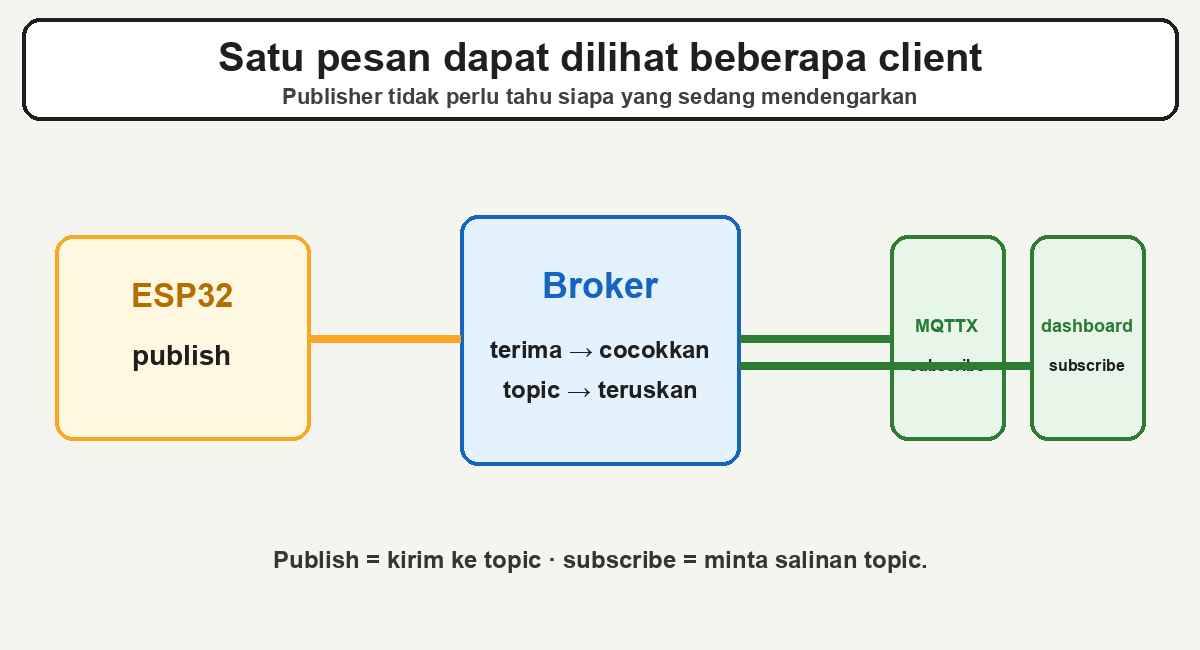
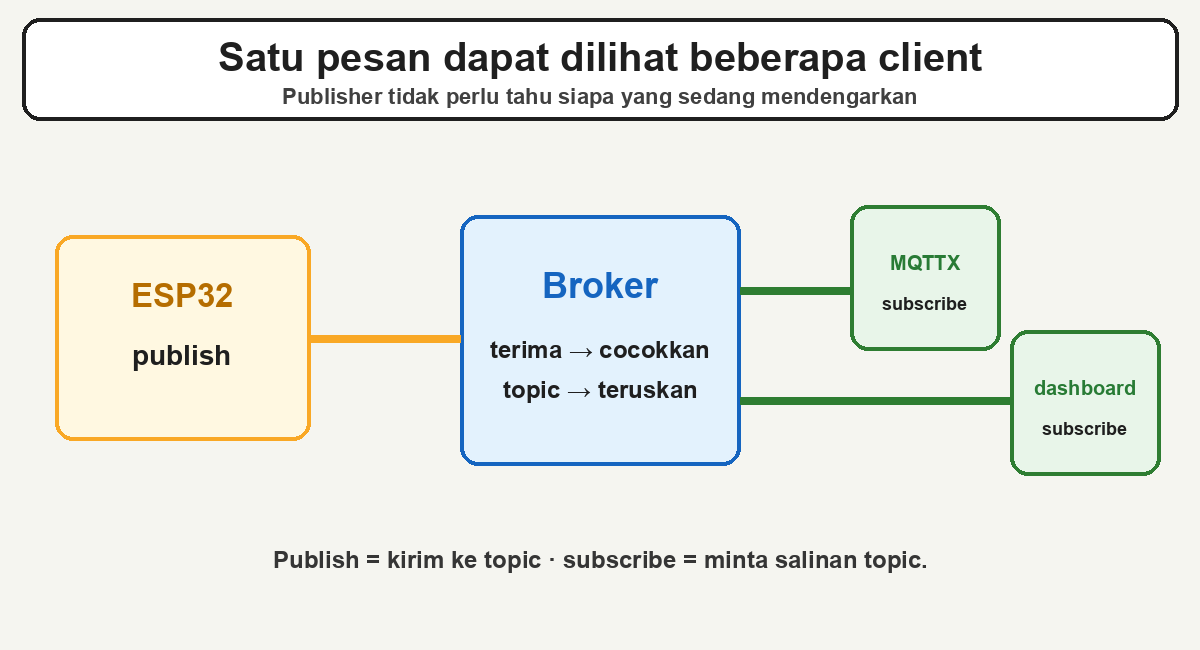
fix(fsiot): improve FS-32 preview clarity

Changed region(s): [[0.6167, 0.3077, 0.9867, 0.7385], [0.6167, 0.4308, 0.7092, 0.4615]]

diff --git a/database/seeders/Article102Seeder.php b/database/seeders/Article102Seeder.php
@@ -108,8 +108,8 @@ HTML
 <p><strong>Bedanya dengan HTTP:</strong> pada HTTP browser biasanya meminta satu alamat lalu server menjawab. Pada MQTT, client dapat berlangganan topic dan broker mengantarkan pesan baru ketika ada publisher. Detail protokolnya ada pada <a href="https://docs.oasis-open.org/mqtt/mqtt/v5.0/mqtt-v5.0.html" target="_blank" rel="noopener noreferrer">spesifikasi MQTT 5.0 OASIS</a>.</p>
 
 <h2>Checklist sebelum FS-33</h2>
-<ul id="fsiot-mqtt-intro-checklist-items"><li>Saya tahu broker adalah perantara pesan.</li><li>Saya tahu client dapat berupa ESP32 atau MQTTX.</li><li>Saya tahu topic adalah alamat pesan, bukan URL web.</li><li>Saya tahu publish berarti mengirim ke topic.</li><li>Saya tahu subscribe berarti menerima pesan dari topic.</li><li>Saya tidak memakai broker publik untuk lab ini.</li><li>MQTTX sudah terpasang atau saya tahu bagian yang perlu diselesaikan.</li><li>Saya belum perlu membuka Arduino IDE pada FS-32.</li></ul>
-<p><strong>Cara menguji checklist:</strong> jelaskan alur ESP32 → broker → MQTTX dengan kata-katamu sendiri, lalu centang hanya yang sudah benar. Tidak perlu terminal atau perintah sintaks hari ini.</p>
+<ul><li>Saya tahu broker adalah perantara pesan.</li><li>Saya tahu client dapat berupa ESP32 atau MQTTX.</li><li>Saya tahu topic adalah alamat pesan, bukan URL web.</li><li>Saya tahu publish berarti mengirim ke topic.</li><li>Saya tahu subscribe berarti menerima pesan dari topic.</li><li>Saya tidak memakai broker publik untuk lab ini.</li><li>MQTTX sudah terpasang atau saya tahu bagian yang perlu diselesaikan.</li><li>Saya belum perlu membuka Arduino IDE pada FS-32.</li></ul>
+<p><strong>Cara memeriksa kesiapan:</strong> baca setiap poin, lalu jelaskan alur ESP32 → broker → MQTTX dengan kata-katamu sendiri. Jika ada yang belum jelas, kembali ke bagian terkait. Tidak perlu terminal atau perintah sintaks hari ini.</p>
 
 <h2>Kesalahan yang sering terjadi</h2>
 <ul><li><strong>Mengira MQTT = HTTP.</strong> MQTT memakai broker dan topic, bukan halaman web.</li><li><strong>Topic salah ketik.</strong> Periksa setiap huruf, termasuk besar-kecilnya.</li><li><strong>Memakai broker publik terlalu dini.</strong> Koneksi dapat berubah atau dibatasi; FS-33 menyiapkan broker lokal.</li><li><strong>Menghubungkan MQTTX sebelum ada broker.</strong> MQTTX adalah client, bukan broker. Tunggu Mosquitto lokal di FS-33.</li></ul>
@@ -151,7 +151,7 @@ HTML
 <ol><li>ESP32 or MQTTX <strong>publishes</strong> a message to a topic.</li><li>The broker receives it.</li><li>The broker forwards it to each client that <strong>subscribes</strong> to the same topic.</li></ol>
 <p><strong>Unlike HTTP:</strong> a browser normally requests an address and a server responds. With MQTT, a client can subscribe and the broker delivers new messages when a publisher sends one. See the <a href="https://docs.oasis-open.org/mqtt/mqtt/v5.0/mqtt-v5.0.html" target="_blank" rel="noopener noreferrer">OASIS MQTT 5.0 specification</a>.</p>
 <h2>Checklist before FS-33</h2><ul><li>I know that a broker is a message middleman.</li><li>I know that ESP32 and MQTTX can be clients.</li><li>I know that a topic is a message address, not a web URL.</li><li>I know that publish sends and subscribe receives.</li><li>I do not use a public broker for this lab.</li><li>MQTTX is installed, or I know what remains to install.</li></ul>
-<p><strong>How to test this checklist:</strong> explain ESP32 → broker → MQTTX in your own words, then tick only the true items. No terminal command is needed today.</p>
+<p><strong>How to check readiness:</strong> read each point, then explain ESP32 → broker → MQTTX in your own words. Return to the related section if anything is unclear. No terminal command is needed today.</p>
 <h2>Common mistakes</h2><ul><li><strong>Thinking MQTT is HTTP.</strong> MQTT uses a broker and topics, not web pages.</li><li><strong>Typing a different topic.</strong> Check every character and letter case.</li><li><strong>Using a public broker too early.</strong> Its availability can change; FS-33 creates a local broker.</li><li><strong>Connecting MQTTX before a broker exists.</strong> MQTTX is a client, not a broker.</li></ul>
 <h2>Next</h2><p><strong>In short:</strong> MQTT moves messages through a broker and topics. MQTTX is ready, but the broker does not exist yet. Continue directly to <strong>FS-33</strong> to install local Mosquitto and perform the first publish/subscribe lab.</p>
 HTML;

diff --git a/scripts/audit-article102.php b/scripts/audit-article102.php
@@ -1,0 +1,61 @@
+<?php
+
+/** Static quality gate for Article #102 / FS-32. Run: php scripts/audit-article102.php */
+
+$root = dirname(__DIR__);
+require $root.'/vendor/autoload.php';
+
+$source = file_get_contents($root.'/database/seeders/Article102Seeder.php');
+$routes = file_get_contents($root.'/routes/web.php');
+$controller = file_get_contents($root.'/app/Http/Controllers/DeployController.php');
+$workflow = file_get_contents($root.'/.github/workflows/deploy.yml');
+
+$seeder = new Database\Seeders\Article102Seeder();
+$reflection = new ReflectionClass($seeder);
+$bodyMethod = $reflection->getMethod('body');
+$bodyMethod->setAccessible(true);
+$body = $bodyMethod->invoke($seeder);
+$bodyEnMethod = $reflection->getMethod('bodyEn');
+$bodyEnMethod->setAccessible(true);
+$bodyEn = $bodyEnMethod->invoke($seeder);
+
+$pass = 0;
+$fail = 0;
+
+function check(string $label, bool $ok): void
+{
+    global $pass, $fail;
+
+    echo ($ok ? 'OK   ' : 'FAIL ').$label."\n";
+    $ok ? $pass++ : $fail++;
+}
+
+check('draft status', str_contains($source, "'status' => 'draft'"));
+check('null publication date', str_contains($source, "'published_at' => null"));
+check('expected slug', str_contains($source, 'fullstack-iot-mqtt-broker-topic-publish-subscribe'));
+check('route exists', str_contains($routes, 'seed-article-102-draft'));
+check('deploy method exists', str_contains($controller, 'seedArticle102Draft'));
+check('workflow early seed exists', str_contains($workflow, 'seed-article-102-draft') && str_contains($workflow, 'id: curl102'));
+check('ID self reference', str_contains($body, '#102 (ini)'));
+check('EN self reference', str_contains($bodyEn, '#102 (this article)'));
+check('friendly opening labels', str_contains($body, 'Intinya:') && str_contains($body, 'Analogi:') && str_contains($bodyEn, 'In short:') && str_contains($bodyEn, 'Analogy:'));
+check('tools-first instructions', str_contains($body, 'Buka browser') && str_contains($body, 'Jangan buka Arduino IDE dulu') && str_contains($bodyEn, 'Open a browser') && str_contains($bodyEn, 'Do not open Arduino IDE yet'));
+check('no premature practice', str_contains($body, 'belum menulis sketch') && str_contains($body, 'broker publik') && str_contains($bodyEn, 'no sketch') && str_contains($bodyEn, 'public broker'));
+check('MQTTX official source cited', str_contains($body, 'mqttx.app/docs') && str_contains($bodyEn, 'mqttx.app/docs'));
+check('OASIS primary source cited', str_contains($body, 'docs.oasis-open.org/mqtt') && str_contains($bodyEn, 'docs.oasis-open.org/mqtt'));
+check('H2 parity', substr_count($body, '<h2') === substr_count($bodyEn, '<h2'));
+check('four figures in both languages', substr_count($body, '<figure') === 4 && substr_count($bodyEn, '<figure') === 4);
+check('all diagrams attributed', substr_count($body, 'Diagram buatan Koding Indonesia (FS-32)') === 4 && substr_count($bodyEn, 'Diagram by Koding Indonesia (FS-32)') === 4);
+check('topic case warning in both languages', str_contains($body, 'telemetry</code> berbeda') && str_contains($bodyEn, 'lowercase names'));
+check('broker is not MQTTX', str_contains($body, 'MQTTX adalah client, bukan broker') && str_contains($bodyEn, 'MQTTX is a client, not a broker'));
+check('checklist is static and honest', ! str_contains($body, 'fsiot-mqtt-intro-checklist-items') && ! str_contains($body, 'centang hanya') && ! str_contains($bodyEn, 'then tick'));
+check('no hard links to draft articles', ! preg_match('#/artikel/fullstack-iot-[a-z0-9-]+#', $body.$bodyEn));
+
+foreach (['fs32-cover-mqtt.jpg', 'fs32-cover-mqtt.webp', 'fs32-tools-order.png', 'fs32-broker-roles.png', 'fs32-topic-address.png', 'fs32-pub-sub-flow.png'] as $asset) {
+    $path = $root.'/public/images/fsiot/'.$asset;
+    $dimensions = is_file($path) ? getimagesize($path) : false;
+    check($asset.' exists and is readable', $dimensions !== false && $dimensions[0] >= 1000 && $dimensions[1] >= 600);
+}
+
+echo "\n{$pass} pass / {$fail} fail\n";
+exit($fail === 0 ? 0 : 1);

diff --git a/scripts/gen-fs32-assets.py b/scripts/gen-fs32-assets.py
@@ -85,13 +85,13 @@ box(draw, (460, 215, 740, 465), '#e3f2fd', '#1565c0')
 text(draw, 600, 285, 'Broker', 36, '#1565c0')
 text(draw, 600, 350, 'terima → cocokkan', 24)
 text(draw, 600, 390, 'topic → teruskan', 24)
-for x, label in [(890, 'MQTTX'), (1030, 'dashboard')]:
-    box(draw, (x, 235, x + 115, 440), '#e8f5e9', '#2e7d32')
-    text(draw, x + 57, 325, label, 18, '#287b35')
-    text(draw, x + 57, 365, 'subscribe', 16)
 draw.line((310, 338, 460, 338), fill='#f9a825', width=8)
-draw.line((740, 338, 890, 338), fill='#2e7d32', width=8)
-draw.line((740, 365, 1030, 365), fill='#2e7d32', width=8)
+draw.line((740, 290, 850, 290), fill='#2e7d32', width=8)
+draw.line((740, 400, 1010, 400), fill='#2e7d32', width=8)
+for x, top, label in [(850, 205, 'MQTTX'), (1010, 330, 'dashboard')]:
+    box(draw, (x, top, x + 150, top + 145), '#e8f5e9', '#2e7d32')
+    text(draw, x + 75, top + 58, label, 20, '#287b35')
+    text(draw, x + 75, top + 98, 'subscribe', 18)
 text(draw, 600, 560, 'Publish = kirim ke topic · subscribe = minta salinan topic.', 24, '#353535')
 save(image, 'fs32-pub-sub-flow.png')
 
